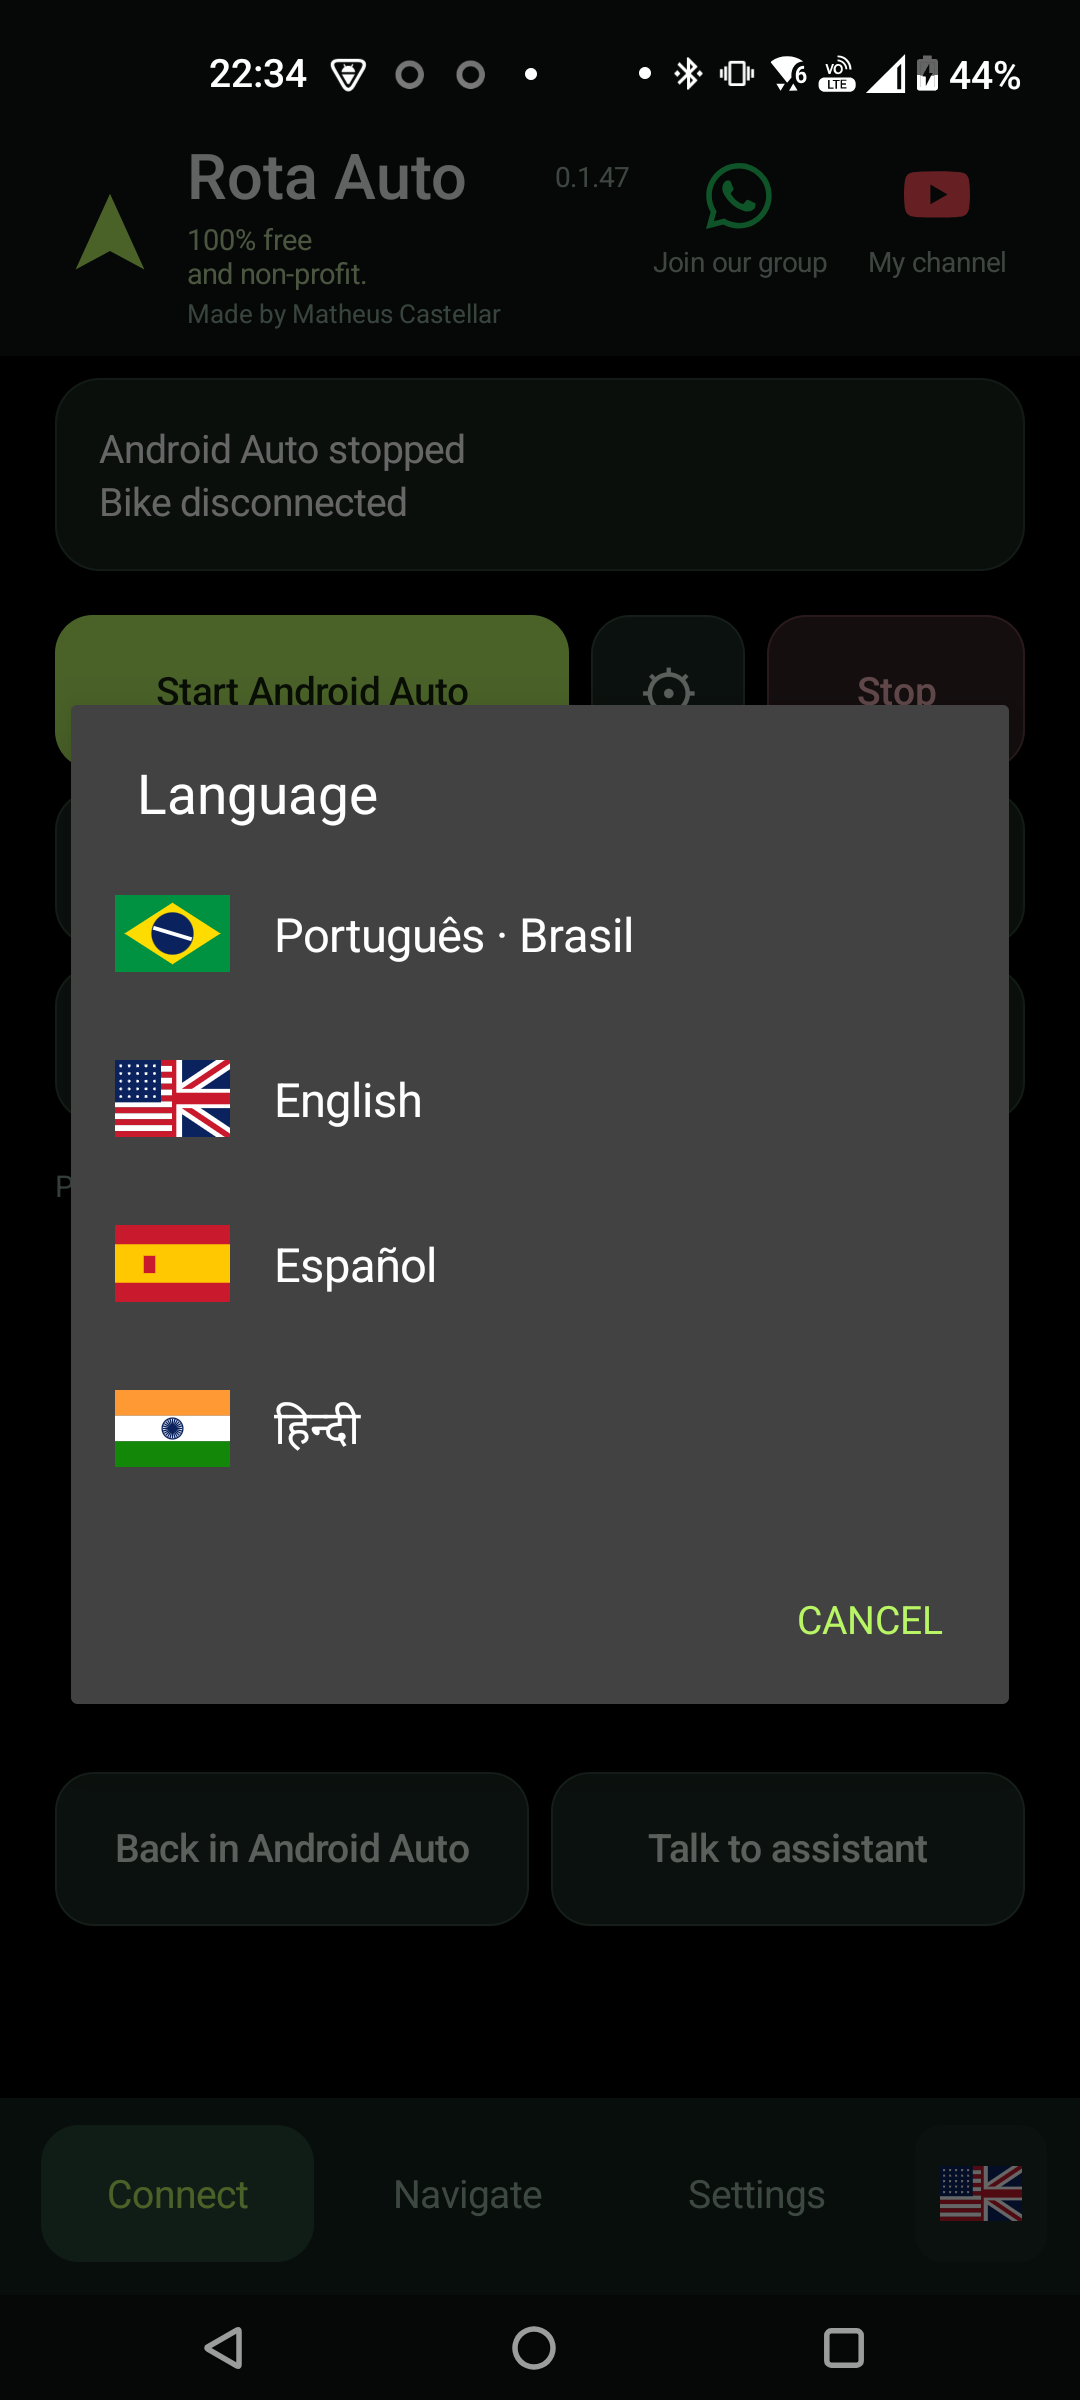
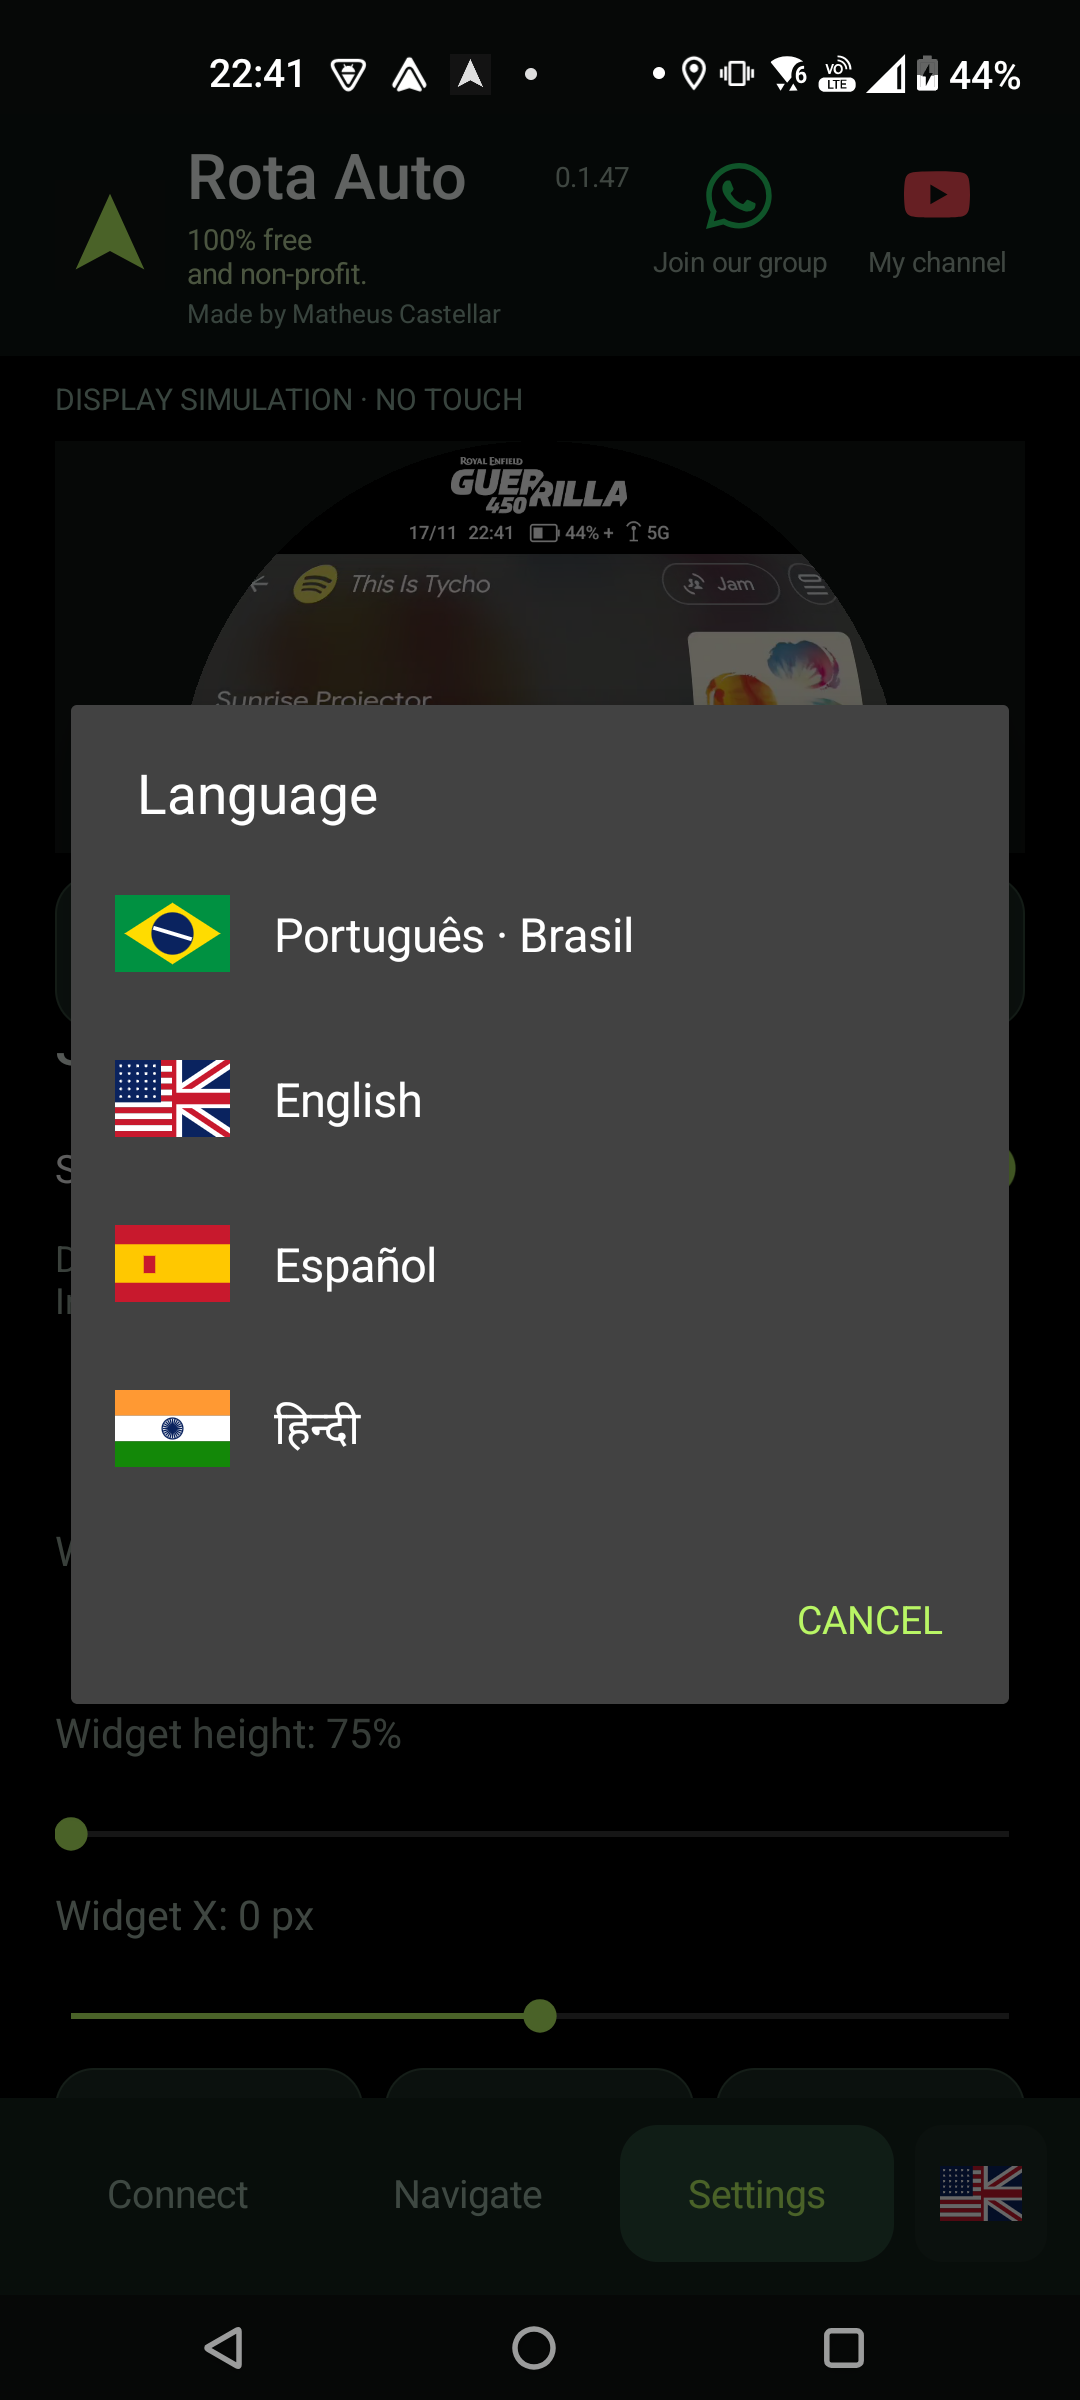
Show live preview and display simulator in app screenshots

diff --git a/README.pt-BR.md b/README.pt-BR.md
@@ -52,7 +52,7 @@ Capturas novas, feitas diretamente no celular em **17/11/2026**, com a versão *
 
 ## Personalização do painel
 
-Ajuste enquadramento, distorção, tamanho e posição da imagem, logo da moto e widget de informações. Logo e widget são opcionais. Nestas capturas, a projeção está parada: a área de prévia aparece vazia, sem divulgar localização.
+Ajuste enquadramento, distorção, tamanho e posição da imagem, logo da moto e widget de informações. Logo e widget são opcionais. As capturas mostram a prévia funcionando e o simulador do painel com o Spotify, sem divulgar localização. A logo Guerrilla e o widget exibidos são personalizações opcionais.
 
 <table>
   <tr><th>Enquadramento e distorção</th><th>Logo da moto</th><th>Widget de informações</th></tr>

diff --git a/README.md b/README.md
@@ -52,7 +52,7 @@ Screenshots captured directly on the phone on **November 17, 2026**, running **0
 
 ## Display customization
 
-Adjust image fitting, distortion, size and position, the motorcycle logo and the information widget. The logo and widget are optional. Projection is stopped in these screenshots, so the preview area is empty and reveals no location.
+Adjust image fitting, distortion, size and position, the motorcycle logo and the information widget. The logo and widget are optional. These screenshots show the live phone preview and display simulator with Spotify, without exposing a location. The Guerrilla logo and widget shown are optional customizations.
 
 <table>
   <tr><th>Image fitting and distortion</th><th>Motorcycle logo</th><th>Information widget</th></tr>
